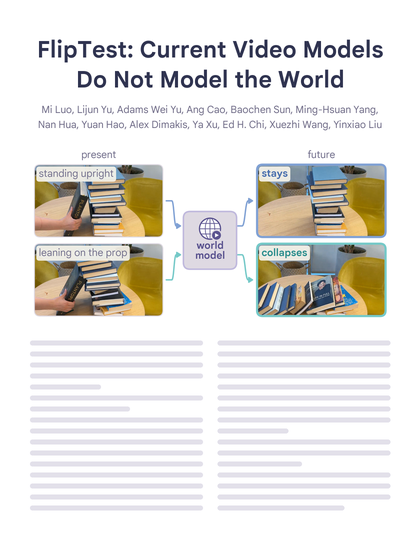
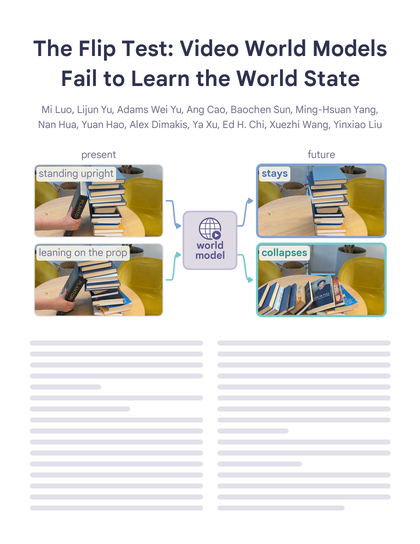
FlipTest blog and homepage: back to the original title

Changed region(s): [[0.0619, 0.0625, 0.9286, 0.1875]]

diff --git a/blog/fliptest/index.html b/blog/fliptest/index.html
@@ -3,10 +3,10 @@
 <head>
 <meta charset="utf-8">
 <meta name="viewport" content="width=device-width, initial-scale=1, viewport-fit=cover">
-<title>FlipTest: Current Video Models Do Not Model the World</title>
+<title>The Flip Test: Video World Models Fail to Learn the World State</title>
 <meta name="claude:viewport-fit-sides" content="cover">
 <meta name="description" content="FlipTest asks whether video world models change their prediction when a small change to the first frame flips the physical outcome.">
-<meta property="og:title" content="FlipTest: Current Video Models Do Not Model the World">
+<meta property="og:title" content="The Flip Test: Video World Models Fail to Learn the World State">
 <meta property="og:description" content="Two nearly identical first frames, two opposite futures. We test whether 11 video world models notice the difference.">
 <meta property="og:image" content="https://romyluo.com/blog/fliptest/assets/fig/blog/fig1-teaser.png">
 <link rel="icon" href="assets/fig/fliptest-mark.png">
@@ -127,7 +127,7 @@ ul.levels .lv { width: 68px; height: auto; flex: none; }
 .meta .res .note { font-size: 11px; line-height: 1.2; color: var(--muted); }
 .meta sup { font-size: 0.7em; }
 .title h1 {
-  font: 700 clamp(20px, calc((100vw - 40px) / 31), 28px)/1.15 var(--font-display); letter-spacing: -0.015em;
+  font: 700 clamp(20px, calc((100vw - 40px) / 33), 28px)/1.15 var(--font-display); letter-spacing: -0.015em;
   margin: 0 0 18px; white-space: nowrap;
 }
 @media (max-width: 720px) { .title h1 { font-size: 26px; white-space: normal; text-wrap: balance; } }
@@ -434,7 +434,7 @@ figure.blog .frame hr { width: 100%; border: 0; border-top: 1px solid #ECEAF1; m
 <main class="page" id="top">
 
   <div class="col title">
-    <h1><img class="mark" src="assets/fig/fliptest-mark.png" alt="" width="600" height="600">FlipTest: Current Video Models Do Not Model the World</h1>
+    <h1><img class="mark" src="assets/fig/fliptest-mark.png" alt="" width="600" height="600">The Flip Test: Video World Models Fail to Learn the World State</h1>
   </div>
 
   <div class="col meta">
@@ -449,7 +449,7 @@ figure.blog .frame hr { width: 100%; border: 0; border-top: 1px solid #ECEAF1; m
         <a class="soon" aria-disabled="true" title="coming soon"><span class="lab">[Paper]</span><img src="assets/fig/card-paper.png" alt="First page of the paper" width="420" height="544"><span class="note">coming soon</span></a>
         <a class="soon" aria-disabled="true" title="coming soon"><span class="lab">[Code&amp;Data]</span><img src="assets/fig/card-code.png" alt="Code and data repository preview" width="600" height="300"><span class="note">coming soon</span></a>
         <a href="assets/video/fliptest.mp4" target="_blank" rel="noopener" title="Watch the walkthrough"><span class="lab">[Video]</span><img src="assets/fig/card-video-frame.jpg" alt="First frame of the video walkthrough: two rows of dominoes with a finger about to push the first one" width="640" height="360"><span class="note">2:56</span></a>
-        <a href="#citation" class="bibcard" title="Copy BibTeX"><span class="lab">[BibTeX]</span><span class="bibthumb">@article{fliptest2026,<br>&nbsp;title = {FlipTest:<br>&nbsp;Current Video<br>&nbsp;Models Do Not…</span></a>
+        <a href="#citation" class="bibcard" title="Copy BibTeX"><span class="lab">[BibTeX]</span><span class="bibthumb">@article{fliptest2026,<br>&nbsp;title = {The Flip<br>&nbsp;Test: Video<br>&nbsp;World Models…</span></a>
       </div>
     </div>
   </div>
@@ -657,8 +657,8 @@ figure.blog .frame hr { width: 100%; border: 0; border-top: 1px solid #ECEAF1; m
 
       <h2 id="citation">Citation</h2>
       <p>If you find FlipTest useful, please cite:</p>
-      <div class="citebox"><a href="#citation" class="bibcard" title="Copy BibTeX"><span class="lab">[BibTeX]</span><span class="bibthumb">@article{fliptest2026,<br>&nbsp;title = {FlipTest:<br>&nbsp;Current Video<br>&nbsp;Models Do Not…</span><span class="note">click to copy</span></a><pre class="bib" id="bib">@article{fliptest2026,
-  title   = {FlipTest: Current Video Models Do Not Model the World},
+      <div class="citebox"><a href="#citation" class="bibcard" title="Copy BibTeX"><span class="lab">[BibTeX]</span><span class="bibthumb">@article{fliptest2026,<br>&nbsp;title = {The Flip<br>&nbsp;Test: Video<br>&nbsp;World Models…</span><span class="note">click to copy</span></a><pre class="bib" id="bib">@article{fliptest2026,
+  title   = {The Flip Test: Video World Models Fail to Learn the World State},
   author  = {Luo, Mi and Yu, Lijun and Yu, Adams Wei and Cao, Ang and Sun, Baochen and Yang, Ming-Hsuan and Hua, Nan and Hao, Yuan and Dimakis, Alex and Xu, Ya and Chi, Ed H. and Wang, Xuezhi and Liu, Yinxiao},
   journal = {arXiv preprint},
   year    = {2026}

diff --git a/index.html b/index.html
@@ -303,7 +303,7 @@
               <img src="images/pubs/fliptest.jpg" alt="FlipTest teaser figure" loading="lazy">
             </a>
             <div class="pub-body">
-              <papertitle>FlipTest: Current Video Models Do Not Model the World</papertitle>
+              <papertitle>The Flip Test: Video World Models Fail to Learn the World State</papertitle>
               <strong class="me">Mi Luo</strong>, Lijun Yu, Adams Wei Yu, Ang Cao, Baochen Sun, Ming-Hsuan Yang, Nan Hua, Yuan Hao, Alex Dimakis, Ya Xu, Ed H. Chi, Xuezhi Wang, Yinxiao Liu
               <br>
               <span class="venue"><strong>Arxiv Preprint</strong>, 2026.</span>
@@ -576,7 +576,7 @@
         <ul class="posts">
           <li>
             <p class="post-meta">November 2026 &middot; 10 min read</p>
-            <a class="post-title" href="/blog/fliptest/">FlipTest: Current Video Models Do Not Model the World</a>
+            <a class="post-title" href="/blog/fliptest/">The Flip Test: Video World Models Fail to Learn the World State</a>
             <p class="post-blurb">Video models are increasingly used as world models for robotics and planning. We test the assumption underneath: if a small change to a scene flips the real outcome, the prediction should flip too. Across 11 frontier models it mostly does not.</p>
             <div class="tags"><span>World Models</span><span>Evaluation</span><span>Physical Reasoning</span></div>
           </li>
